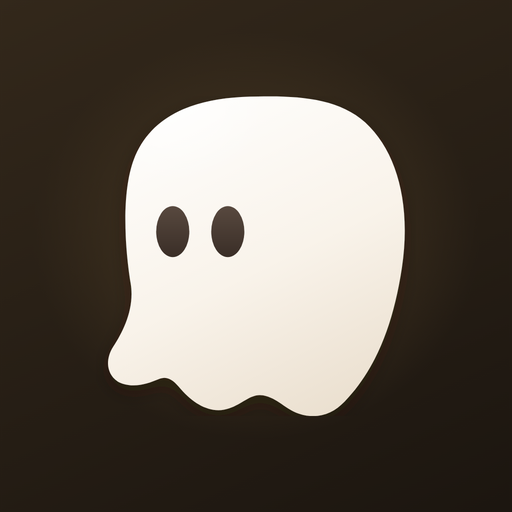
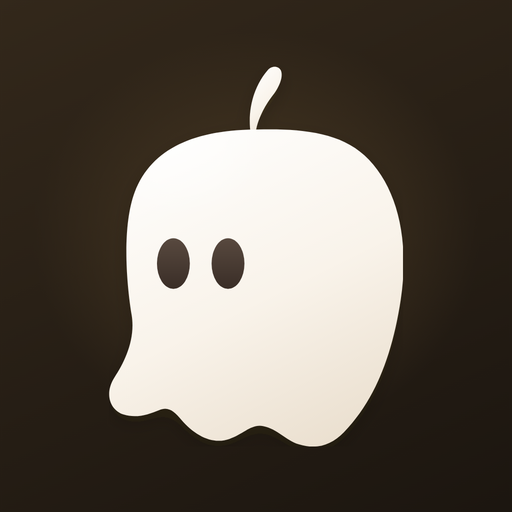
정령 꼭지 반영 (spirit-character-stem), 마켓플레이스 5장·앱아이콘 재캡쳐

diff --git a/index.html b/index.html
@@ -113,7 +113,7 @@
 
 <div class="slide">
   <div class="wash w1" aria-hidden="true"><i></i><i></i><i></i></div>
-  <div class="brand"><span class="markimg"><svg viewBox="291 282 662 715" preserveAspectRatio="xMidYMid meet" aria-hidden="true">
+  <div class="brand"><span class="markimg"><svg viewBox="279 140 694 866" preserveAspectRatio="xMidYMid meet" aria-hidden="true">
   <defs>
     <linearGradient id="sBody" x1="28%" y1="4%" x2="72%" y2="100%">
       <stop offset="0%" stop-color="#fefdfb"/><stop offset="52%" stop-color="#f9f3ea"/><stop offset="100%" stop-color="#ebe0d0"/>
@@ -126,6 +126,8 @@
     </radialGradient>
     <clipPath id="sClip"><path d="M627 283 C487 283 387 324 349 424 C320 501 330 628 342 701 C351 756 326 807 303 842 C279 880 295 916 324 925 C353 934 380 925 404 915 C425 906 438 918 454 937 C486 974 525 993 562 980 C594 969 611 946 638 951 C670 957 689 983 718 992 C758 1005 792 994 820 965 C891 891 929 791 948 666 C969 526 938 407 866 341 C808 288 720 281 627 283 Z"/></clipPath>
   </defs>
+  <!-- 꼭지 (spirit-character-stem) -->
+  <path d="M 610 293 C 602 237 618 185 648 150 C 657 139 672 139 678 150 C 684 164 675 188 657 210 C 642 230 626 260 622 286 Z" fill="url(#sBody)"/>
   <path d="M627 283 C487 283 387 324 349 424 C320 501 330 628 342 701 C351 756 326 807 303 842 C279 880 295 916 324 925 C353 934 380 925 404 915 C425 906 438 918 454 937 C486 974 525 993 562 980 C594 969 611 946 638 951 C670 957 689 983 718 992 C758 1005 792 994 820 965 C891 891 929 791 948 666 C969 526 938 407 866 341 C808 288 720 281 627 283 Z" fill="url(#sBody)"/>
   <ellipse cx="520" cy="430" rx="250" ry="200" fill="url(#sGloss)" clip-path="url(#sClip)"/>
   <ellipse cx="436" cy="585" rx="37" ry="57" fill="url(#sEye)"/>
@@ -160,7 +162,7 @@
       </div>
       
       <div class="msg">
-        <div class="av ringo"><svg viewBox="291 282 662 715" preserveAspectRatio="xMidYMid meet" aria-hidden="true">
+        <div class="av ringo"><svg viewBox="279 140 694 866" preserveAspectRatio="xMidYMid meet" aria-hidden="true">
   <defs>
     <linearGradient id="sBody" x1="28%" y1="4%" x2="72%" y2="100%">
       <stop offset="0%" stop-color="#fefdfb"/><stop offset="52%" stop-color="#f9f3ea"/><stop offset="100%" stop-color="#ebe0d0"/>
@@ -173,6 +175,8 @@
     </radialGradient>
     <clipPath id="sClip"><path d="M627 283 C487 283 387 324 349 424 C320 501 330 628 342 701 C351 756 326 807 303 842 C279 880 295 916 324 925 C353 934 380 925 404 915 C425 906 438 918 454 937 C486 974 525 993 562 980 C594 969 611 946 638 951 C670 957 689 983 718 992 C758 1005 792 994 820 965 C891 891 929 791 948 666 C969 526 938 407 866 341 C808 288 720 281 627 283 Z"/></clipPath>
   </defs>
+  <!-- 꼭지 (spirit-character-stem) -->
+  <path d="M 610 293 C 602 237 618 185 648 150 C 657 139 672 139 678 150 C 684 164 675 188 657 210 C 642 230 626 260 622 286 Z" fill="url(#sBody)"/>
   <path d="M627 283 C487 283 387 324 349 424 C320 501 330 628 342 701 C351 756 326 807 303 842 C279 880 295 916 324 925 C353 934 380 925 404 915 C425 906 438 918 454 937 C486 974 525 993 562 980 C594 969 611 946 638 951 C670 957 689 983 718 992 C758 1005 792 994 820 965 C891 891 929 791 948 666 C969 526 938 407 866 341 C808 288 720 281 627 283 Z" fill="url(#sBody)"/>
   <ellipse cx="520" cy="430" rx="250" ry="200" fill="url(#sGloss)" clip-path="url(#sClip)"/>
   <ellipse cx="436" cy="585" rx="37" ry="57" fill="url(#sEye)"/>
@@ -383,7 +387,7 @@
       </div>
       
       <div class="msg">
-        <div class="av ringo"><svg viewBox="291 282 662 715" preserveAspectRatio="xMidYMid meet" aria-hidden="true">
+        <div class="av ringo"><svg viewBox="279 140 694 866" preserveAspectRatio="xMidYMid meet" aria-hidden="true">
   <defs>
     <linearGradient id="sBody" x1="28%" y1="4%" x2="72%" y2="100%">
       <stop offset="0%" stop-color="#fefdfb"/><stop offset="52%" stop-color="#f9f3ea"/><stop offset="100%" stop-color="#ebe0d0"/>
@@ -396,6 +400,8 @@
     </radialGradient>
     <clipPath id="sClip"><path d="M627 283 C487 283 387 324 349 424 C320 501 330 628 342 701 C351 756 326 807 303 842 C279 880 295 916 324 925 C353 934 380 925 404 915 C425 906 438 918 454 937 C486 974 525 993 562 980 C594 969 611 946 638 951 C670 957 689 983 718 992 C758 1005 792 994 820 965 C891 891 929 791 948 666 C969 526 938 407 866 341 C808 288 720 281 627 283 Z"/></clipPath>
   </defs>
+  <!-- 꼭지 (spirit-character-stem) -->
+  <path d="M 610 293 C 602 237 618 185 648 150 C 657 139 672 139 678 150 C 684 164 675 188 657 210 C 642 230 626 260 622 286 Z" fill="url(#sBody)"/>
   <path d="M627 283 C487 283 387 324 349 424 C320 501 330 628 342 701 C351 756 326 807 303 842 C279 880 295 916 324 925 C353 934 380 925 404 915 C425 906 438 918 454 937 C486 974 525 993 562 980 C594 969 611 946 638 951 C670 957 689 983 718 992 C758 1005 792 994 820 965 C891 891 929 791 948 666 C969 526 938 407 866 341 C808 288 720 281 627 283 Z" fill="url(#sBody)"/>
   <ellipse cx="520" cy="430" rx="250" ry="200" fill="url(#sGloss)" clip-path="url(#sClip)"/>
   <ellipse cx="436" cy="585" rx="37" ry="57" fill="url(#sEye)"/>
@@ -452,7 +458,7 @@
       </div>
       
       <div class="msg">
-        <div class="av ringo"><svg viewBox="291 282 662 715" preserveAspectRatio="xMidYMid meet" aria-hidden="true">
+        <div class="av ringo"><svg viewBox="279 140 694 866" preserveAspectRatio="xMidYMid meet" aria-hidden="true">
   <defs>
     <linearGradient id="sBody" x1="28%" y1="4%" x2="72%" y2="100%">
       <stop offset="0%" stop-color="#fefdfb"/><stop offset="52%" stop-color="#f9f3ea"/><stop offset="100%" stop-color="#ebe0d0"/>
@@ -465,6 +471,8 @@
     </radialGradient>
     <clipPath id="sClip"><path d="M627 283 C487 283 387 324 349 424 C320 501 330 628 342 701 C351 756 326 807 303 842 C279 880 295 916 324 925 C353 934 380 925 404 915 C425 906 438 918 454 937 C486 974 525 993 562 980 C594 969 611 946 638 951 C670 957 689 983 718 992 C758 1005 792 994 820 965 C891 891 929 791 948 666 C969 526 938 407 866 341 C808 288 720 281 627 283 Z"/></clipPath>
   </defs>
+  <!-- 꼭지 (spirit-character-stem) -->
+  <path d="M 610 293 C 602 237 618 185 648 150 C 657 139 672 139 678 150 C 684 164 675 188 657 210 C 642 230 626 260 622 286 Z" fill="url(#sBody)"/>
   <path d="M627 283 C487 283 387 324 349 424 C320 501 330 628 342 701 C351 756 326 807 303 842 C279 880 295 916 324 925 C353 934 380 925 404 915 C425 906 438 918 454 937 C486 974 525 993 562 980 C594 969 611 946 638 951 C670 957 689 983 718 992 C758 1005 792 994 820 965 C891 891 929 791 948 666 C969 526 938 407 866 341 C808 288 720 281 627 283 Z" fill="url(#sBody)"/>
   <ellipse cx="520" cy="430" rx="250" ry="200" fill="url(#sGloss)" clip-path="url(#sClip)"/>
   <ellipse cx="436" cy="585" rx="37" ry="57" fill="url(#sEye)"/>

diff --git a/v1.html b/v1.html
@@ -113,7 +113,7 @@
 
 <div class="slide">
   <div class="wash w1" aria-hidden="true"><i></i><i></i><i></i></div>
-  <div class="brand"><span class="markimg"><svg viewBox="291 282 662 715" preserveAspectRatio="xMidYMid meet" aria-hidden="true">
+  <div class="brand"><span class="markimg"><svg viewBox="279 140 694 866" preserveAspectRatio="xMidYMid meet" aria-hidden="true">
   <defs>
     <linearGradient id="sBody" x1="28%" y1="4%" x2="72%" y2="100%">
       <stop offset="0%" stop-color="#fefdfb"/><stop offset="52%" stop-color="#f9f3ea"/><stop offset="100%" stop-color="#ebe0d0"/>
@@ -126,6 +126,8 @@
     </radialGradient>
     <clipPath id="sClip"><path d="M627 283 C487 283 387 324 349 424 C320 501 330 628 342 701 C351 756 326 807 303 842 C279 880 295 916 324 925 C353 934 380 925 404 915 C425 906 438 918 454 937 C486 974 525 993 562 980 C594 969 611 946 638 951 C670 957 689 983 718 992 C758 1005 792 994 820 965 C891 891 929 791 948 666 C969 526 938 407 866 341 C808 288 720 281 627 283 Z"/></clipPath>
   </defs>
+  <!-- 꼭지 (spirit-character-stem) -->
+  <path d="M 610 293 C 602 237 618 185 648 150 C 657 139 672 139 678 150 C 684 164 675 188 657 210 C 642 230 626 260 622 286 Z" fill="url(#sBody)"/>
   <path d="M627 283 C487 283 387 324 349 424 C320 501 330 628 342 701 C351 756 326 807 303 842 C279 880 295 916 324 925 C353 934 380 925 404 915 C425 906 438 918 454 937 C486 974 525 993 562 980 C594 969 611 946 638 951 C670 957 689 983 718 992 C758 1005 792 994 820 965 C891 891 929 791 948 666 C969 526 938 407 866 341 C808 288 720 281 627 283 Z" fill="url(#sBody)"/>
   <ellipse cx="520" cy="430" rx="250" ry="200" fill="url(#sGloss)" clip-path="url(#sClip)"/>
   <ellipse cx="436" cy="585" rx="37" ry="57" fill="url(#sEye)"/>
@@ -160,7 +162,7 @@
       </div>
       
       <div class="msg">
-        <div class="av ringo"><svg viewBox="291 282 662 715" preserveAspectRatio="xMidYMid meet" aria-hidden="true">
+        <div class="av ringo"><svg viewBox="279 140 694 866" preserveAspectRatio="xMidYMid meet" aria-hidden="true">
   <defs>
     <linearGradient id="sBody" x1="28%" y1="4%" x2="72%" y2="100%">
       <stop offset="0%" stop-color="#fefdfb"/><stop offset="52%" stop-color="#f9f3ea"/><stop offset="100%" stop-color="#ebe0d0"/>
@@ -173,6 +175,8 @@
     </radialGradient>
     <clipPath id="sClip"><path d="M627 283 C487 283 387 324 349 424 C320 501 330 628 342 701 C351 756 326 807 303 842 C279 880 295 916 324 925 C353 934 380 925 404 915 C425 906 438 918 454 937 C486 974 525 993 562 980 C594 969 611 946 638 951 C670 957 689 983 718 992 C758 1005 792 994 820 965 C891 891 929 791 948 666 C969 526 938 407 866 341 C808 288 720 281 627 283 Z"/></clipPath>
   </defs>
+  <!-- 꼭지 (spirit-character-stem) -->
+  <path d="M 610 293 C 602 237 618 185 648 150 C 657 139 672 139 678 150 C 684 164 675 188 657 210 C 642 230 626 260 622 286 Z" fill="url(#sBody)"/>
   <path d="M627 283 C487 283 387 324 349 424 C320 501 330 628 342 701 C351 756 326 807 303 842 C279 880 295 916 324 925 C353 934 380 925 404 915 C425 906 438 918 454 937 C486 974 525 993 562 980 C594 969 611 946 638 951 C670 957 689 983 718 992 C758 1005 792 994 820 965 C891 891 929 791 948 666 C969 526 938 407 866 341 C808 288 720 281 627 283 Z" fill="url(#sBody)"/>
   <ellipse cx="520" cy="430" rx="250" ry="200" fill="url(#sGloss)" clip-path="url(#sClip)"/>
   <ellipse cx="436" cy="585" rx="37" ry="57" fill="url(#sEye)"/>
@@ -383,7 +387,7 @@
       </div>
       
       <div class="msg">
-        <div class="av ringo"><svg viewBox="291 282 662 715" preserveAspectRatio="xMidYMid meet" aria-hidden="true">
+        <div class="av ringo"><svg viewBox="279 140 694 866" preserveAspectRatio="xMidYMid meet" aria-hidden="true">
   <defs>
     <linearGradient id="sBody" x1="28%" y1="4%" x2="72%" y2="100%">
       <stop offset="0%" stop-color="#fefdfb"/><stop offset="52%" stop-color="#f9f3ea"/><stop offset="100%" stop-color="#ebe0d0"/>
@@ -396,6 +400,8 @@
     </radialGradient>
     <clipPath id="sClip"><path d="M627 283 C487 283 387 324 349 424 C320 501 330 628 342 701 C351 756 326 807 303 842 C279 880 295 916 324 925 C353 934 380 925 404 915 C425 906 438 918 454 937 C486 974 525 993 562 980 C594 969 611 946 638 951 C670 957 689 983 718 992 C758 1005 792 994 820 965 C891 891 929 791 948 666 C969 526 938 407 866 341 C808 288 720 281 627 283 Z"/></clipPath>
   </defs>
+  <!-- 꼭지 (spirit-character-stem) -->
+  <path d="M 610 293 C 602 237 618 185 648 150 C 657 139 672 139 678 150 C 684 164 675 188 657 210 C 642 230 626 260 622 286 Z" fill="url(#sBody)"/>
   <path d="M627 283 C487 283 387 324 349 424 C320 501 330 628 342 701 C351 756 326 807 303 842 C279 880 295 916 324 925 C353 934 380 925 404 915 C425 906 438 918 454 937 C486 974 525 993 562 980 C594 969 611 946 638 951 C670 957 689 983 718 992 C758 1005 792 994 820 965 C891 891 929 791 948 666 C969 526 938 407 866 341 C808 288 720 281 627 283 Z" fill="url(#sBody)"/>
   <ellipse cx="520" cy="430" rx="250" ry="200" fill="url(#sGloss)" clip-path="url(#sClip)"/>
   <ellipse cx="436" cy="585" rx="37" ry="57" fill="url(#sEye)"/>
@@ -452,7 +458,7 @@
       </div>
       
       <div class="msg">
-        <div class="av ringo"><svg viewBox="291 282 662 715" preserveAspectRatio="xMidYMid meet" aria-hidden="true">
+        <div class="av ringo"><svg viewBox="279 140 694 866" preserveAspectRatio="xMidYMid meet" aria-hidden="true">
   <defs>
     <linearGradient id="sBody" x1="28%" y1="4%" x2="72%" y2="100%">
       <stop offset="0%" stop-color="#fefdfb"/><stop offset="52%" stop-color="#f9f3ea"/><stop offset="100%" stop-color="#ebe0d0"/>
@@ -465,6 +471,8 @@
     </radialGradient>
     <clipPath id="sClip"><path d="M627 283 C487 283 387 324 349 424 C320 501 330 628 342 701 C351 756 326 807 303 842 C279 880 295 916 324 925 C353 934 380 925 404 915 C425 906 438 918 454 937 C486 974 525 993 562 980 C594 969 611 946 638 951 C670 957 689 983 718 992 C758 1005 792 994 820 965 C891 891 929 791 948 666 C969 526 938 407 866 341 C808 288 720 281 627 283 Z"/></clipPath>
   </defs>
+  <!-- 꼭지 (spirit-character-stem) -->
+  <path d="M 610 293 C 602 237 618 185 648 150 C 657 139 672 139 678 150 C 684 164 675 188 657 210 C 642 230 626 260 622 286 Z" fill="url(#sBody)"/>
   <path d="M627 283 C487 283 387 324 349 424 C320 501 330 628 342 701 C351 756 326 807 303 842 C279 880 295 916 324 925 C353 934 380 925 404 915 C425 906 438 918 454 937 C486 974 525 993 562 980 C594 969 611 946 638 951 C670 957 689 983 718 992 C758 1005 792 994 820 965 C891 891 929 791 948 666 C969 526 938 407 866 341 C808 288 720 281 627 283 Z" fill="url(#sBody)"/>
   <ellipse cx="520" cy="430" rx="250" ry="200" fill="url(#sGloss)" clip-path="url(#sClip)"/>
   <ellipse cx="436" cy="585" rx="37" ry="57" fill="url(#sEye)"/>

diff --git a/build1.js b/build1.js
@@ -16,7 +16,7 @@ const path = require('path');
 const DIR = __dirname;
 
 /* 제품 실제 마스코트 (ringoai.app DOM에서 가져온 path) */
-const SPIRIT = `<svg viewBox="291 282 662 715" preserveAspectRatio="xMidYMid meet" aria-hidden="true">
+const SPIRIT = `<svg viewBox="279 140 694 866" preserveAspectRatio="xMidYMid meet" aria-hidden="true">
   <defs>
     <linearGradient id="sBody" x1="28%" y1="4%" x2="72%" y2="100%">
       <stop offset="0%" stop-color="#fefdfb"/><stop offset="52%" stop-color="#f9f3ea"/><stop offset="100%" stop-color="#ebe0d0"/>
@@ -29,6 +29,8 @@ const SPIRIT = `<svg viewBox="291 282 662 715" preserveAspectRatio="xMidYMid mee
     </radialGradient>
     <clipPath id="sClip"><path d="M627 283 C487 283 387 324 349 424 C320 501 330 628 342 701 C351 756 326 807 303 842 C279 880 295 916 324 925 C353 934 380 925 404 915 C425 906 438 918 454 937 C486 974 525 993 562 980 C594 969 611 946 638 951 C670 957 689 983 718 992 C758 1005 792 994 820 965 C891 891 929 791 948 666 C969 526 938 407 866 341 C808 288 720 281 627 283 Z"/></clipPath>
   </defs>
+  <!-- 꼭지 (spirit-character-stem) -->
+  <path d="M 610 293 C 602 237 618 185 648 150 C 657 139 672 139 678 150 C 684 164 675 188 657 210 C 642 230 626 260 622 286 Z" fill="url(#sBody)"/>
   <path d="M627 283 C487 283 387 324 349 424 C320 501 330 628 342 701 C351 756 326 807 303 842 C279 880 295 916 324 925 C353 934 380 925 404 915 C425 906 438 918 454 937 C486 974 525 993 562 980 C594 969 611 946 638 951 C670 957 689 983 718 992 C758 1005 792 994 820 965 C891 891 929 791 948 666 C969 526 938 407 866 341 C808 288 720 281 627 283 Z" fill="url(#sBody)"/>
   <ellipse cx="520" cy="430" rx="250" ry="200" fill="url(#sGloss)" clip-path="url(#sClip)"/>
   <ellipse cx="436" cy="585" rx="37" ry="57" fill="url(#sEye)"/>
